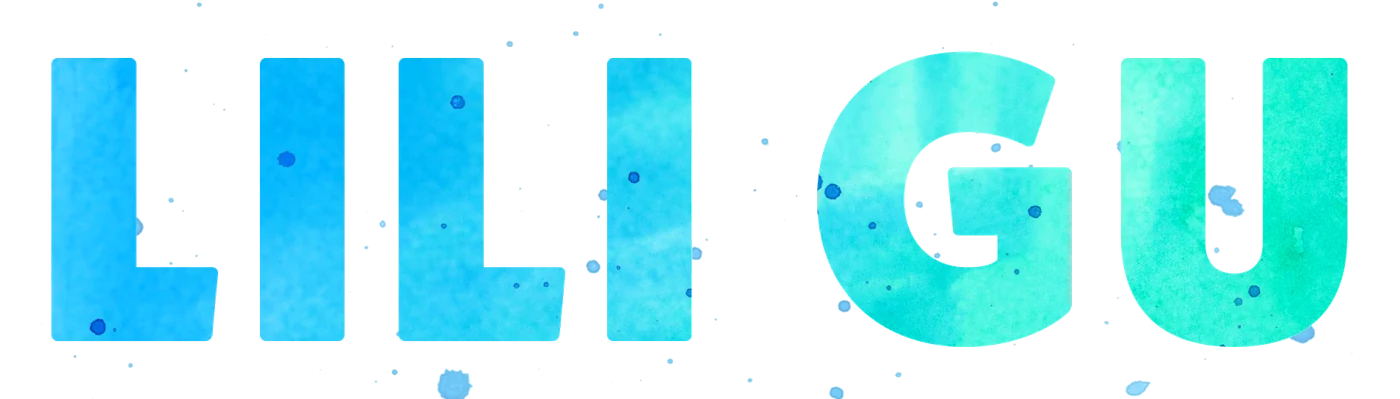
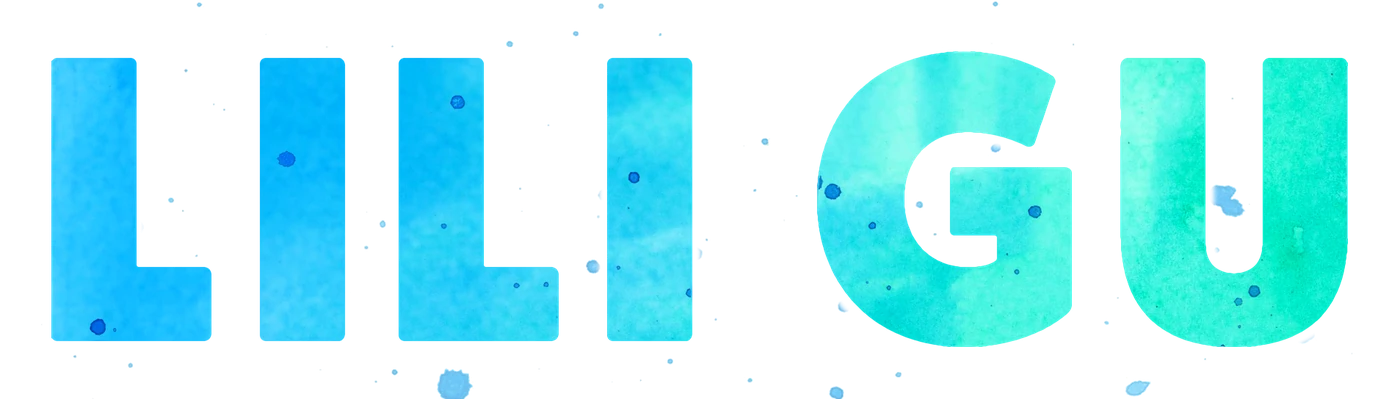
Smooth title letter edges, straighten L feet and G bar; drop reel runtime
Claude-Session: https://claude.ai/code/session_01VntyYW2E3WBJFWJNMhAf7W

diff --git a/index.html b/index.html
@@ -251,7 +251,7 @@ footer .wrap{display:flex;justify-content:space-between;gap:1rem;flex-wrap:wrap}
       </div>
       <figure class="reel-embed">
         <div class="frame"><iframe src="https://player.vimeo.com/video/158287395?title=0&amp;byline=0&amp;portrait=0&amp;dnt=1" title="Lili Gu film reel" allow="autoplay; fullscreen; picture-in-picture" allowfullscreen></iframe><button class="dim" type="button" aria-label="Play the film reel"></button></div>
-        <figcaption><span>Film reel</span><span>2:30 · <a href="https://vimeo.com/158287395" target="_blank" rel="noopener">Watch on Vimeo ↗</a></span></figcaption>
+        <figcaption><span>Film reel</span><span><a href="https://vimeo.com/158287395" target="_blank" rel="noopener">Watch on Vimeo ↗</a></span></figcaption>
       </figure>
     </div>
   </section>

diff --git a/src/site.html b/src/site.html
@@ -251,7 +251,7 @@ footer .wrap{display:flex;justify-content:space-between;gap:1rem;flex-wrap:wrap}
       </div>
       <figure class="reel-embed">
         <div class="frame"><iframe src="https://player.vimeo.com/video/158287395?title=0&amp;byline=0&amp;portrait=0&amp;dnt=1" title="Lili Gu film reel" allow="autoplay; fullscreen; picture-in-picture" allowfullscreen></iframe><button class="dim" type="button" aria-label="Play the film reel"></button></div>
-        <figcaption><span>Film reel</span><span>2:30 · <a href="https://vimeo.com/158287395" target="_blank" rel="noopener">Watch on Vimeo ↗</a></span></figcaption>
+        <figcaption><span>Film reel</span><span><a href="https://vimeo.com/158287395" target="_blank" rel="noopener">Watch on Vimeo ↗</a></span></figcaption>
       </figure>
     </div>
   </section>
